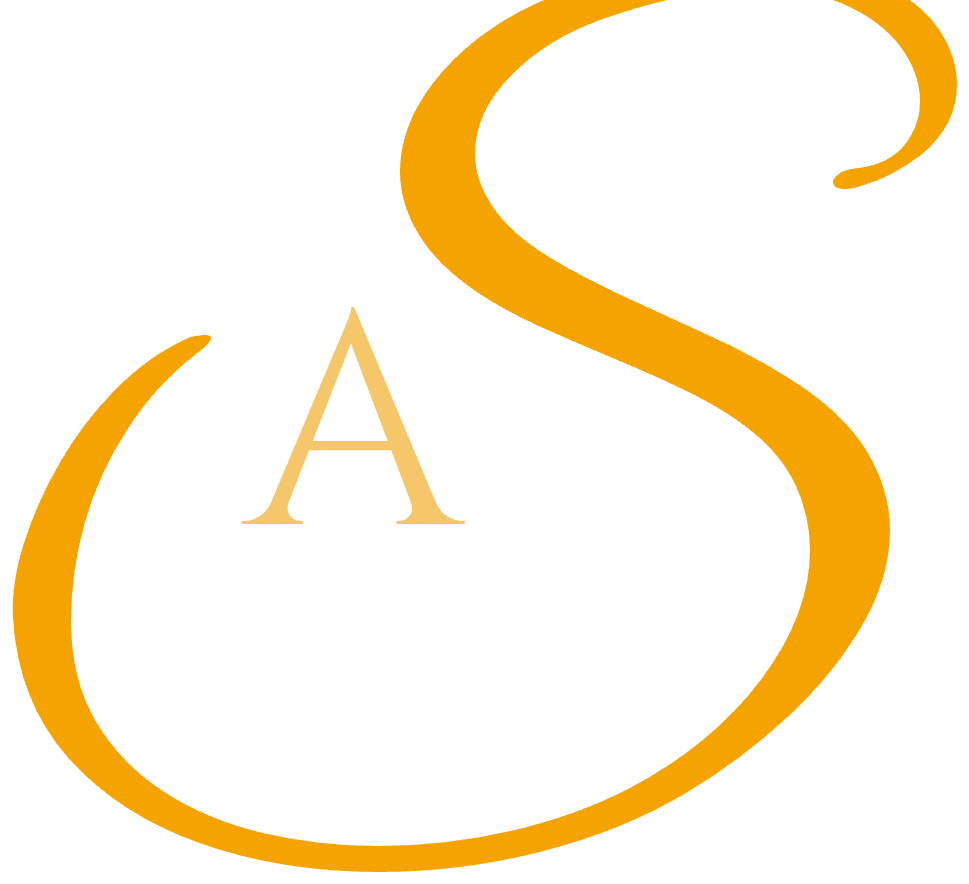
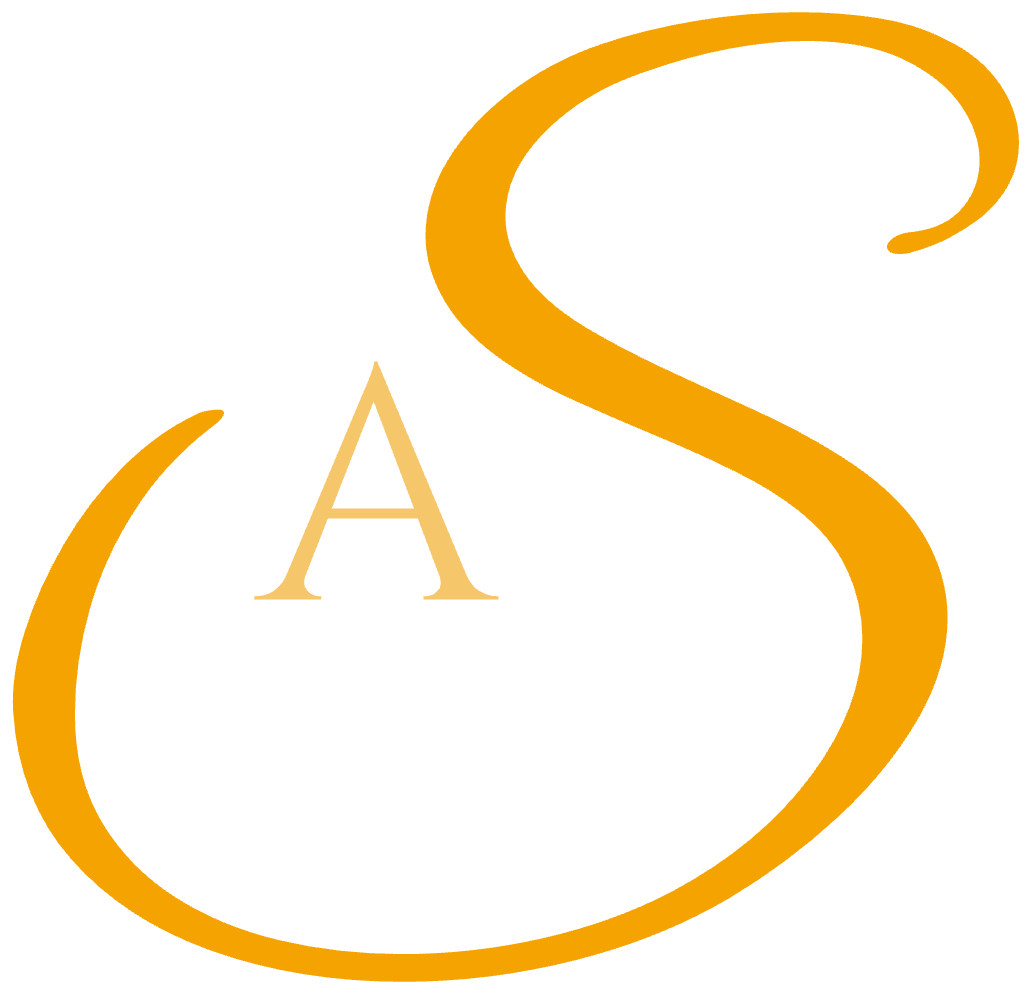
Flap: drop the monogram (the seal carries it); full monogram artwork
Flap now reads tagline, diamond, names, recentred with larger names.
Monogram images regenerated from monogram-AS-2a-full.png so the top of
the S is no longer cropped (seal and menu).

diff --git a/public/js/invitation-overlay.js b/public/js/invitation-overlay.js
@@ -4,7 +4,7 @@
    its own:
 
      InvitationOverlay.show({
-       ganesha, monogram, monogramImage, sealImage, names, tagline,
+       ganesha, monogram, sealImage, names, tagline,
        headline, tapHint,
        buttonLabel,
        onTap,     // called synchronously inside the tap — start music here,
@@ -49,7 +49,7 @@
     '#inv-ov .gan{width:clamp(44px,7vh,64px);aspect-ratio:118/146;border-radius:50% 50% 8px 8px/40% 40% 8px 8px;border:3px solid ' + C.orange + ';overflow:hidden;background:#fff;box-shadow:0 4px 12px rgba(40,0,6,.4)}' +
     '#inv-ov .gan img{width:100%;height:100%;object-fit:cover;display:block}' +
     '#inv-ov .env{position:relative;width:min(92vw,620px,calc((100vh - 230px) * 1.42));aspect-ratio:1.42;container-type:inline-size;cursor:pointer;perspective:1400px;animation:inv-float 3.9s ease-in-out infinite;outline:none;transition:transform .7s ' + OUT + '}' +
-    '@media (max-aspect-ratio:3/4){#inv-ov .env{aspect-ratio:1.25;width:min(92vw,calc((100vh - 230px) * 1.25))}#inv-ov .tmono.has-img{margin:2.4cqw 0 1.4cqw}#inv-ov .tmono img{height:15cqw}}' +
+    '@media (max-aspect-ratio:3/4){#inv-ov .env{aspect-ratio:1.25;width:min(92vw,calc((100vh - 230px) * 1.25))}}' +
     '#inv-ov .env:focus-visible .frame{box-shadow:0 22px 50px rgba(40,0,6,.5),0 0 0 3px ' + C.gold + '}' +
     '@keyframes inv-float{0%,100%{translate:0 -5px}50%{translate:0 5px}}' +
     '#inv-ov.tapped .env{animation-play-state:paused}' +
@@ -70,13 +70,12 @@
     '#inv-ov .flap .face:before{content:"";position:absolute;inset:0;border-radius:inherit;background:linear-gradient(180deg,#9A1628,' + C.maroon + ');clip-path:polygon(0 0,100% 0,100% 30%,50% 60%,0 30%)}' +
     '#inv-ov .flap .back{transform:rotateX(180deg)}' +
     '#inv-ov .flap .back:before{background:linear-gradient(0deg,#6E0A18,#560915);clip-path:polygon(0 100%,100% 100%,100% 70%,50% 40%,0 70%)}' +
-    '#inv-ov .ftext{position:relative;display:flex;flex-direction:column;align-items:center;padding-top:4.6cqw;text-align:center;line-height:1}' +
+    '#inv-ov .ftext{position:relative;display:flex;flex-direction:column;align-items:center;gap:3cqw;padding-top:7cqw;text-align:center;line-height:1}' +
+    '@media (max-aspect-ratio:3/4){#inv-ov .ftext{padding-top:9cqw;gap:3.6cqw}}' +
     '#inv-ov .ttag{display:flex;align-items:center;gap:2cqw;font-family:"Cormorant Garamond",serif;font-style:italic;color:' + C.gold + ';font-size:3.4cqw;letter-spacing:.02em}' +
     '#inv-ov .ttag:before,#inv-ov .ttag:after{content:"";width:7cqw;height:1px;background:linear-gradient(90deg,transparent,' + C.gold + ')}#inv-ov .ttag:after{transform:scaleX(-1)}' +
-    '#inv-ov .tmono{position:relative;left:-.45cqw;margin:3.65cqw 0 .95cqw;font-family:"Script Cap A","Great Vibes",cursive;color:' + C.white + ';font-size:11cqw;line-height:.9;text-shadow:0 3px 12px rgba(40,0,6,.4)}' +
-    '#inv-ov .tmono.has-img{left:0;margin:1.8cqw 0 1cqw;line-height:0;text-shadow:none}#inv-ov .tmono img{display:block;height:11.5cqw;width:auto;margin:0 auto;filter:drop-shadow(0 3px 8px rgba(40,0,6,.45))}' +
     '#inv-ov .wax img{position:relative;width:64%;height:auto;display:block}' +
-    '#inv-ov .tname{display:flex;flex-direction:column;align-items:center;gap:1.6cqw;font-family:Marcellus,serif;color:' + C.gold + ';font-size:2.7cqw;letter-spacing:.32em;text-indent:.32em;text-transform:uppercase}' +
+    '#inv-ov .tname{display:flex;flex-direction:column;align-items:center;gap:1.6cqw;font-family:Marcellus,serif;color:' + C.gold + ';font-size:3.4cqw;letter-spacing:.32em;text-indent:.32em;text-transform:uppercase}' +
     '#inv-ov .tname:before{content:"";width:2.6cqw;height:2.6cqw;background:' + C.gold + ';transform:rotate(45deg) scale(.55)}' +
     '#inv-ov.open .flap{transform:rotateX(180deg)}' +
     '#inv-ov.flapback .flap{z-index:-1}' +
@@ -109,9 +108,6 @@
     }
     var sky = [[7, 9, '50% 50% 0 0'], [4, 13, '2px 2px 0 0'], [12, 6, '0'], [9, 14, '50% 50% 0 0'], [14, 8, '0'], [9, 14, '50% 50% 0 0'], [12, 6, '0'], [4, 13, '2px 2px 0 0'], [7, 9, '50% 50% 0 0']]
       .map(function (s) { return '<i style="width:' + s[0] + 'vw;height:' + s[1] + 'vh;border-radius:' + s[2] + '"></i>'; }).join('');
-    var monoHtml = o.monogramImage
-      ? '<div class="tmono has-img"><img src="' + esc(o.monogramImage) + '" alt="' + esc(o.monogram) + '"></div>'
-      : '<div class="tmono">' + esc(o.monogram) + '</div>';
     var sealHtml = o.sealImage
       ? '<img src="' + esc(o.sealImage) + '" alt="">'
       : esc(String(o.monogram || '').replace(/\s+/g, ''));
@@ -124,7 +120,7 @@
           '<div class="liner"></div>' +
           '<div class="card">' + gan + '<div class="sh">॥ श्री गणेशाय नमः ॥</div><div class="r"><i></i><b></b><i></i></div><div class="nm">' + esc(o.names) + '</div></div>' +
           '<div class="pocket"></div>' +
-          '<div class="flap"><div class="face front"><div class="ftext"><div class="ttag">' + esc(o.tagline) + '</div>' + monoHtml + '<div class="tname">' + esc(o.names) + '</div></div></div><div class="face back"></div></div>' +
+          '<div class="flap"><div class="face front"><div class="ftext"><div class="ttag">' + esc(o.tagline) + '</div><div class="tname">' + esc(o.names) + '</div></div></div><div class="face back"></div></div>' +
           '<div class="seal"><div class="wax">' + sealHtml + '</div></div><div class="ring"></div><div class="rip"></div>' +
         '</div></div></div>' +
         '<div class="below">' +
@@ -136,7 +132,7 @@
   }
 
   var DEFAULTS = {
-    ganesha: '', monogram: 'A & S', monogramImage: '', sealImage: '', names: 'Anushka & Saurabh',
+    ganesha: '', monogram: 'A & S', sealImage: '', names: 'Anushka & Saurabh',
     tagline: 'A little love. A little filmy.',
     headline: 'You’re Invited', tapHint: 'Tap the envelope to break the seal', buttonLabel: 'Open Invitation',
   };

diff --git a/public/js/main.js b/public/js/main.js
@@ -377,7 +377,6 @@
     window.InvitationOverlay.show({
       ganesha: cfg && cfg.branding && cfg.branding.ganeshLogo,
       monogram: couple && couple.monogram,
-      monogramImage: cfg && cfg.branding && cfg.branding.monogramImage,
       sealImage: cfg && cfg.branding && cfg.branding.monogramImageOnGold,
       names: couple && `${couple.bride.name} & ${couple.groom.name}`,
       tagline: intro.tagline,

diff --git a/README.md b/README.md
@@ -36,7 +36,7 @@ Edit it and refresh the browser; no restart or rebuild needed. Fields:
 |---|---|
 | `couple` | `bride`/`groom` name + `parents` line (e.g. "Daughter of ..."), `monogram` (spaces are stripped for the round badges, so "A & S" renders as "A&S"), `hashtag`, `photo` (path under `public/`, e.g. `/assets/roka1.jpeg`) and `photoCaption` |
 | `intro` | The opening overlay's text: `tagline`, `headline`, `buttonLabel`, `tapHint` (screen-reader label); plus `musicUrl` — see "The opening screen" and "Homepage & background music" below. Names come from `couple` |
-| `branding` | `ganeshLogo` — the Ganesha mark shown in the footer. Line art on a white background works best (the white is blended out automatically). `monogramImage` — the A & S monogram image (transparent PNG) used on the envelope flap and in the menu, and `monogramImageOnGold` — a dark copy for the gold wax seal. Leave them out to fall back to the text monogram |
+| `branding` | `ganeshLogo` — the Ganesha mark shown in the footer. Line art on a white background works best (the white is blended out automatically). `monogramImage` — the A & S monogram image (transparent PNG) used in the menu, and `monogramImageOnGold` — a dark copy for the gold wax seal. Leave them out to fall back to the text monogram |
 | `hero` | The homepage invitation: `invocation` (श्री गणेशाय नमः), `preTitle`, `tagline` (the invitation line), `place`, `ctaLabel`; `blessingLine` is shown in the footer. The date range ("4–5 December 2026") is worked out from `schedule` |
 | `wedding` | `date` (`YYYY-MM-DD`), `time` (24h `HH:MM`) — drives the countdown to the muhurtham; `venueName`/`venueCity`/`address`/`mapQuery` drive the "When & Where" glance and Directions buttons in the countdown band; `countdownLabel` is the text above the countdown |
 | `story` | Optional — a string or a list of lines, each shown on its own row. A "Question? Answer." line sets the answer apart in bold gold. Leave `""` or `[]` to hide it |
@@ -51,7 +51,7 @@ Edit it and refresh the browser; no restart or rebuild needed. Fields:
 
 `public/js/invitation-overlay.js` draws a full-screen "tap to open"
 invitation over the site: falling petals and a large gold-framed envelope
-whose top flap carries the tagline, A & S monogram and names, sealed with an A&S wax seal. The flap has a
+whose top flap carries the tagline and names, sealed with an A&S wax seal. The flap has a
 separate plain inside face, so the text never shows mirrored as it flips
 open. Below it: "You're Invited" and an Open Invitation button. Tapping
 the envelope or the button:
@@ -110,7 +110,7 @@ Leave `musicUrl` as `""` to disable the music; the mute button hides itself.
 | `wedding-ganesh-logo.jpg` | Ganesha mark in the footer (`branding.ganeshLogo`) |
 | `roka1.jpeg` | The framed couple photo in "Our Story" (`couple.photo`) |
 | `scenes/*.jpg` | Caricature scenes on the festivity card fronts (`schedule[].art`) |
-| `brand/monogram-gold.png`, `brand/monogram-maroon.png` | The A & S monogram (trimmed from the supplied artwork; maroon copy for the wax seal) |
+| `brand/monogram-gold.png`, `brand/monogram-maroon.png` | The A & S monogram (trimmed from the supplied full artwork; maroon copy for the wax seal) |
 | `media/song.mp3` | Background music (`intro.musicUrl`) |
 
 The remaining homepage ornament — the red damask ground, the falling petals,
